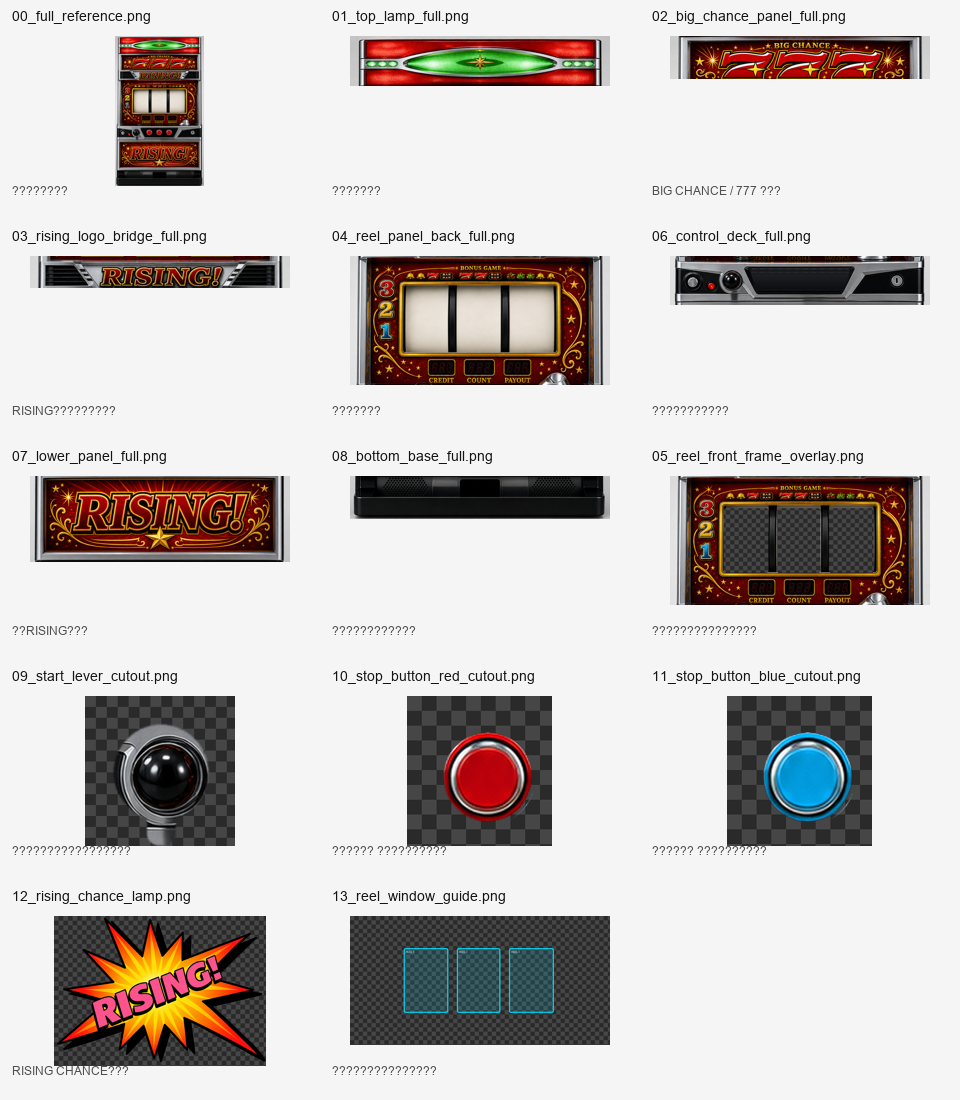
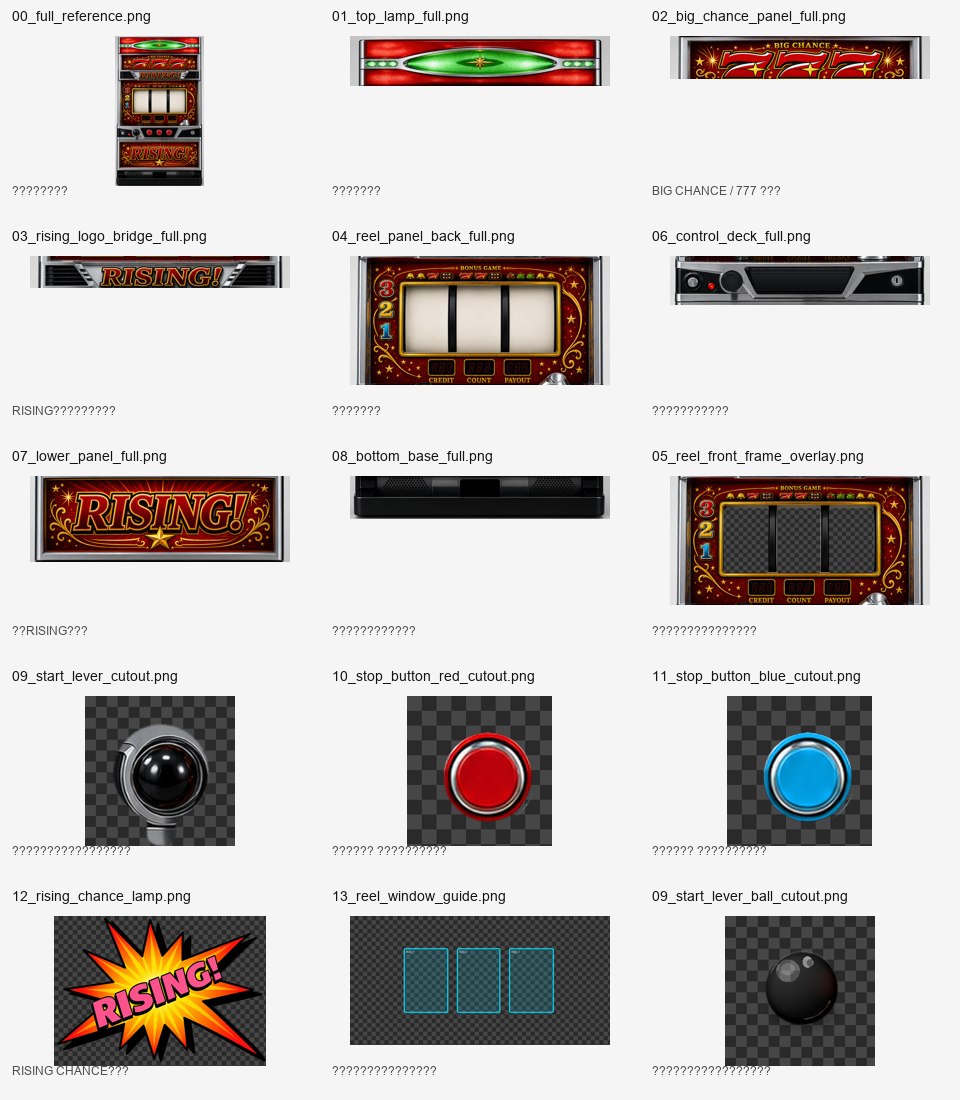
Separate start lever knob from cabinet art

Changed region(s): [[0.6875, 0.8036, 0.9375, 0.9891], [0.75, 0.2473, 0.7812, 0.2782]]

diff --git a/jag.html b/jag.html
@@ -20,7 +20,7 @@
 <link rel="preload" as="image" href="assets/buttons/btn_speed_half_blue.png">
 <link rel="preload" as="image" href="assets/effects/reverse_push_blue.png">
 <link rel="preload" as="image" href="assets/effects/reverse_push_red.png">
-<link rel="preload" as="image" href="assets/controls/start_lever_cut.png">
+<link rel="preload" as="image" href="assets/controls/start_lever_ball.png">
 <link rel="preload" as="image" href="assets/controls/stop_button_red_cut.png">
 <link rel="preload" as="image" href="assets/controls/stop_button_blue_cut.png">
 <style>
@@ -6110,7 +6110,7 @@ body{
   pointer-events:none;
   z-index:85;
   transform:translate(-50%, -50%);
-  background:url("assets/controls/start_lever_cut.png") center / contain no-repeat;
+  background:url("assets/controls/start_lever_ball.png") center / contain no-repeat;
   filter:drop-shadow(0 5px 5px rgba(0,0,0,.42));
   transition:transform .09s ease, top .09s ease, filter .09s ease;
 }
@@ -6189,7 +6189,7 @@ body{
   width:15.4%;
   height:15.4%;
   transform:translate(-50%, -50%);
-  background-image:url("assets/controls/start_lever_cut.png");
+  background-image:url("assets/controls/start_lever_ball.png");
   filter:drop-shadow(0 4px 5px rgba(0,0,0,.40));
   transition:top .09s ease, transform .09s ease, filter .09s ease;
 }